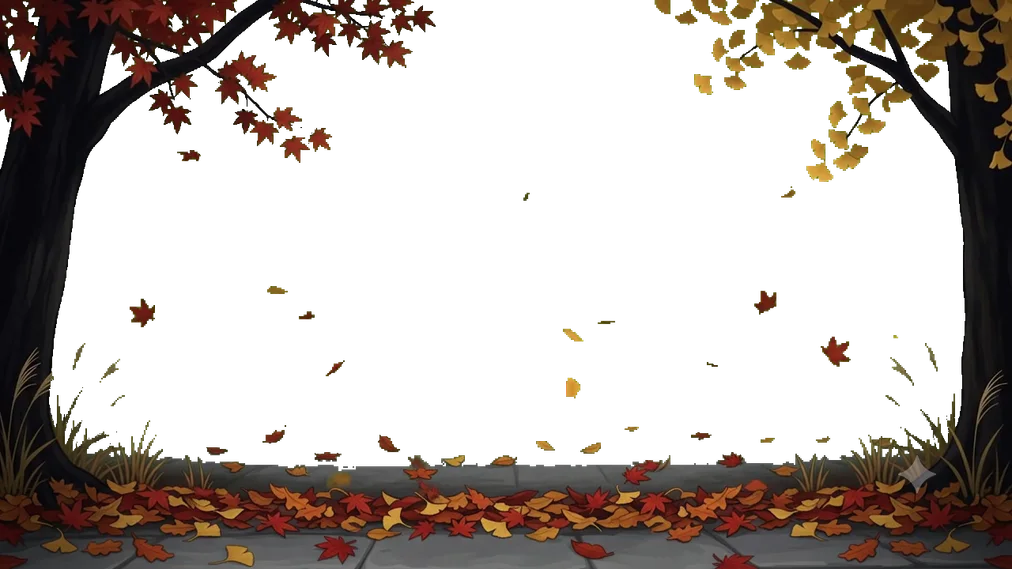
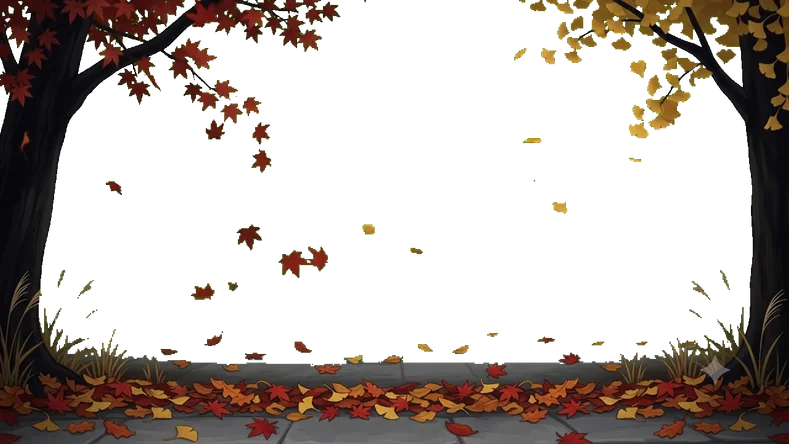
fix(BladeTrinity): 前景动画太快 —— 抽帧数与播放帧率没对齐，实为 4.1 倍加速
根因不是 animFps 调大了，是【帧数 ÷ 循环段秒数 ≠ animFps】。序列帧从一段
视频里等间隔抽出，还原原速的条件就是这个等式；首版 14 帧覆盖 9.67s 的段却按
6fps 播，等于把 9.67 秒压进 2.33 秒放，肉眼就是"太快"。

- 帧数 14 → 28，循环段由"越长越好"改为按 --seconds 指定（取 4.50s）
- animFps 取 5（原速 6.22 的 0.8 倍，用户要再慢一点），周期 28÷5 = 5.6s
  周期变长也压低了飘叶跳位的出现频率
- 帧数翻倍必须同时降分辨率：出图存目标几何的 0.78 倍（789×444），游戏侧
  scale 1.282 补回来，前景本就是 soft focus 看不出。显存 30.8 → 37.4MB

build-fore-anim.mjs 补三处：
- --seconds / --shrink 参数，并直接算出该填的 animFps 与 scale 打印出来
- 循环点搜索改在目标段长 ±25% 窗口内找最优闭环（原来是全程找最相似，
  必然选到最长段，反过来加剧加速感）
- 清理残留帧 + 重写 manifest。上一版这两步的字符串替换没打上（输出里没有
  "Manifest 已更新"就是症状）：帧数变了而 manifest 还是旧列表，preload 会
  按旧数量加载，多出来的帧白占显存、少了的帧动画静默缺帧。

门：verify 全过；playtest bot 通关，runtimeErrors 空。

diff --git a/game_runs/BladeTrinity/game/config.js b/game_runs/BladeTrinity/game/config.js
@@ -74,12 +74,18 @@ BT.BG_SETS = {
   outdoor: [
     { key: 'outdoor_far', scale: 0.534, depth: -100 },
     { key: 'outdoor_mid', scale: 0.537, depth: -50 },
-    // 动态枝叶层：14 帧序列帧循环（tools/build-fore-anim.mjs 从绿幕视频构建）。
-    // 目标几何已经【烘进图里】（1012×569，落叶带顶边正好落在 FLOOR_Y−10），所以
-    // scale=1、也不再需要 scaleX —— 树干天然裁到画布边外，不会再罩住墙角的角色。
-    // animFps 压到 6：14 帧 ÷ 6 = 2.33 秒一轮。保留了中央飘叶（用户定），飘叶位置
-    // 让循环做不到真无缝，周期拉长到 2 秒以上那一次跳位才不显眼。
-    { key: 'outdoor_fore', animFrames: 14, animFps: 6, scale: 1, depth: 20 },
+    // 动态枝叶层：28 帧序列帧循环（tools/build-fore-anim.mjs 从绿幕视频构建）。
+    //
+    // ⚠ animFps 不能拍脑袋调。序列帧是从一段视频里【等间隔】抽的，所以
+    //    animFps = 帧数 ÷ 循环段秒数 才是原速。首版 14 帧覆盖 9.67s 的段却按 6fps
+    //    播 = 4.1 倍加速，肉眼就是"太快"。现在 28 帧覆盖 4.50s，原速 = 6.22fps，
+    //    取 5 → 比真实风势再慢 1.24 倍（用户定），周期 28÷5 = 5.6 秒。
+    //    周期长同时也压低了飘叶跳位的出现频率（保留中央飘叶后循环做不到真无缝）。
+    //
+    // scale 1.282：帧数拉高必须同时降分辨率，否则显存线性翻倍。出图按目标几何的
+    // 0.78 倍存（789×444），这里放大补回来 —— 前景本来就是 soft focus，看不出。
+    // 也不需要 scaleX：树干天然裁到画布边外，不会再罩住墙角的角色。
+    { key: 'outdoor_fore', animFrames: 28, animFps: 5, scale: 1.282, depth: 20 },
   ],
 };
 // 按场次取景（round 从 0 起）。缺图时 _buildStage 会跳过该层，不会 404。

diff --git a/game_runs/BladeTrinity/assets/bg/manifest.js b/game_runs/BladeTrinity/assets/bg/manifest.js
@@ -1,2 +1,2 @@
 /* process-bg.mjs 自动生成，勿手改 */
-window.BLADE_BG = ["far.webp","fore.webp","mid.webp","outdoor_far.webp","outdoor_fore.webp","outdoor_fore_a0.webp","outdoor_fore_a1.webp","outdoor_fore_a10.webp","outdoor_fore_a11.webp","outdoor_fore_a12.webp","outdoor_fore_a13.webp","outdoor_fore_a2.webp","outdoor_fore_a3.webp","outdoor_fore_a4.webp","outdoor_fore_a5.webp","outdoor_fore_a6.webp","outdoor_fore_a7.webp","outdoor_fore_a8.webp","outdoor_fore_a9.webp","outdoor_mid.webp"];
+window.BLADE_BG = ["far.webp","fore.webp","mid.webp","outdoor_far.webp","outdoor_fore.webp","outdoor_fore_a0.webp","outdoor_fore_a1.webp","outdoor_fore_a10.webp","outdoor_fore_a11.webp","outdoor_fore_a12.webp","outdoor_fore_a13.webp","outdoor_fore_a14.webp","outdoor_fore_a15.webp","outdoor_fore_a16.webp","outdoor_fore_a17.webp","outdoor_fore_a18.webp","outdoor_fore_a19.webp","outdoor_fore_a2.webp","outdoor_fore_a20.webp","outdoor_fore_a21.webp","outdoor_fore_a22.webp","outdoor_fore_a23.webp","outdoor_fore_a24.webp","outdoor_fore_a25.webp","outdoor_fore_a26.webp","outdoor_fore_a27.webp","outdoor_fore_a3.webp","outdoor_fore_a4.webp","outdoor_fore_a5.webp","outdoor_fore_a6.webp","outdoor_fore_a7.webp","outdoor_fore_a8.webp","outdoor_fore_a9.webp","outdoor_mid.webp"];
